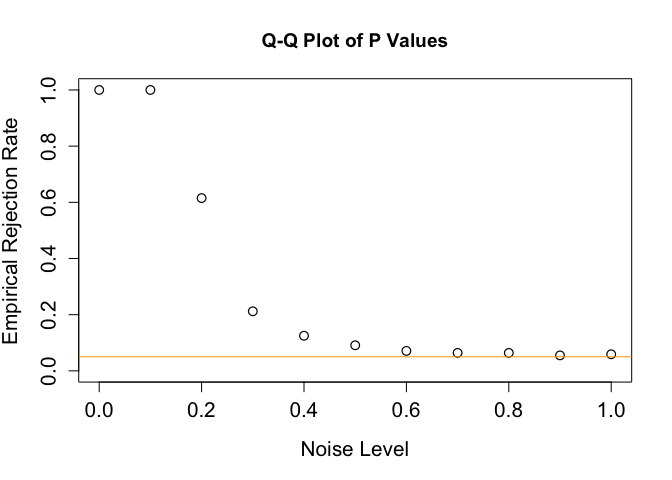
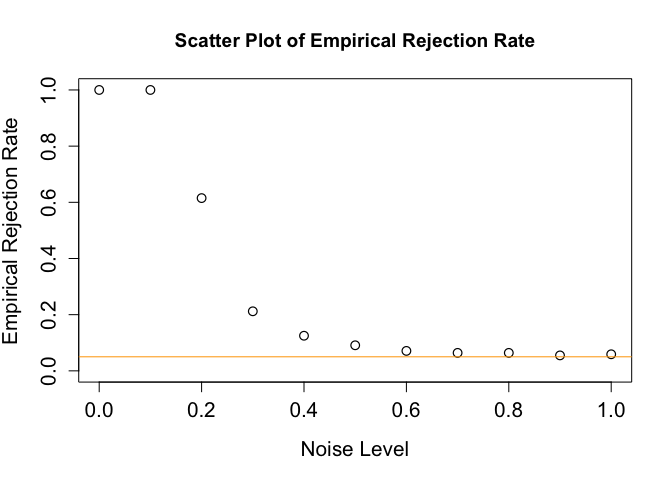
modify figure title

Changed region(s): [[0.25, 0.0625, 0.8125, 0.125]]

diff --git a/README.md b/README.md
@@ -148,7 +148,7 @@ plot(
   xlim = c(0, 1),
   ylim = c(0, 1),
   lwd = 1.2,
-  main = "Q-Q Plot of P Values"
+  main = "Scatter Plot of Empirical Rejection Rate"
 )
 abline(h = alpha, col = "orange")
 ```
